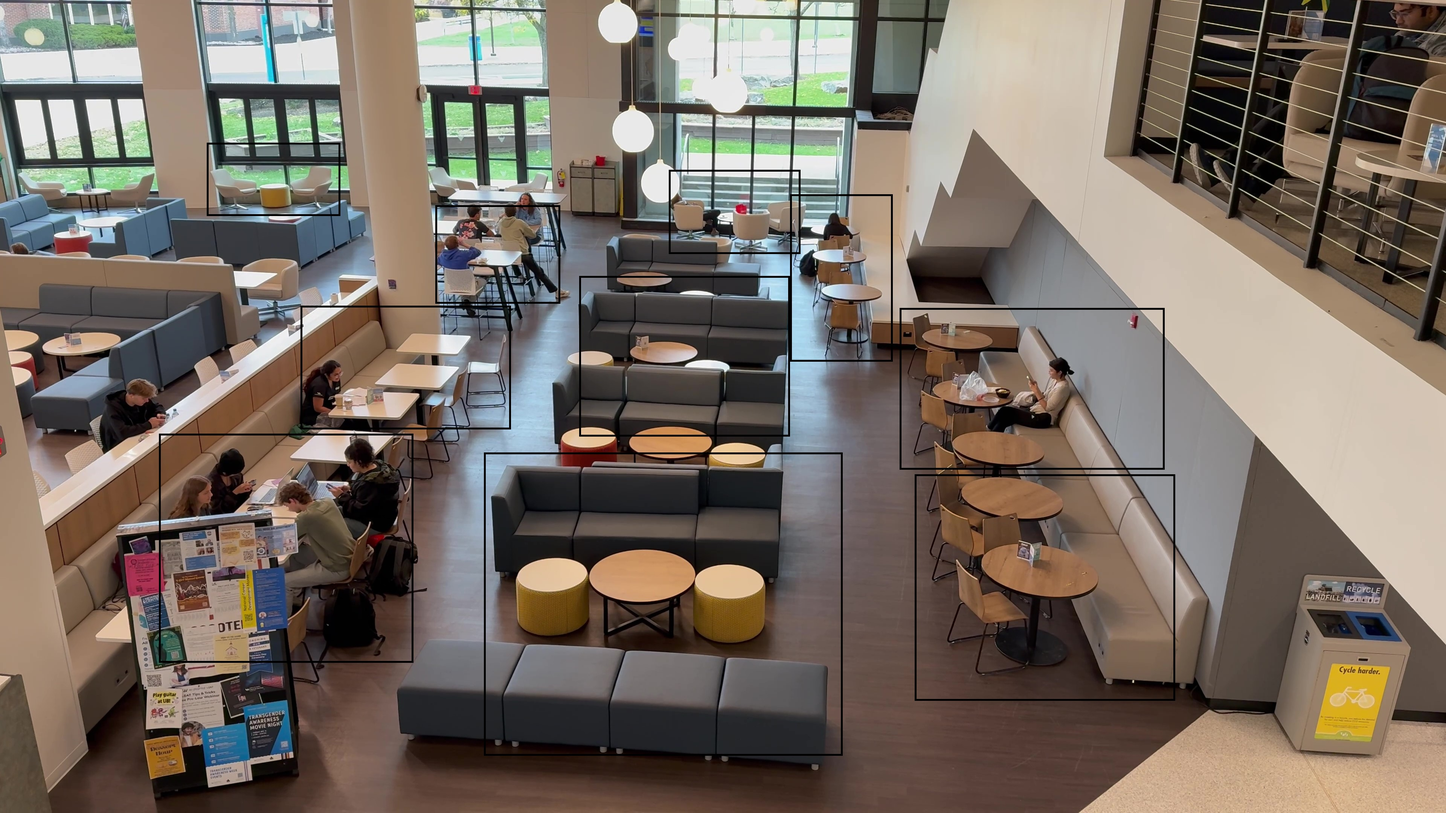
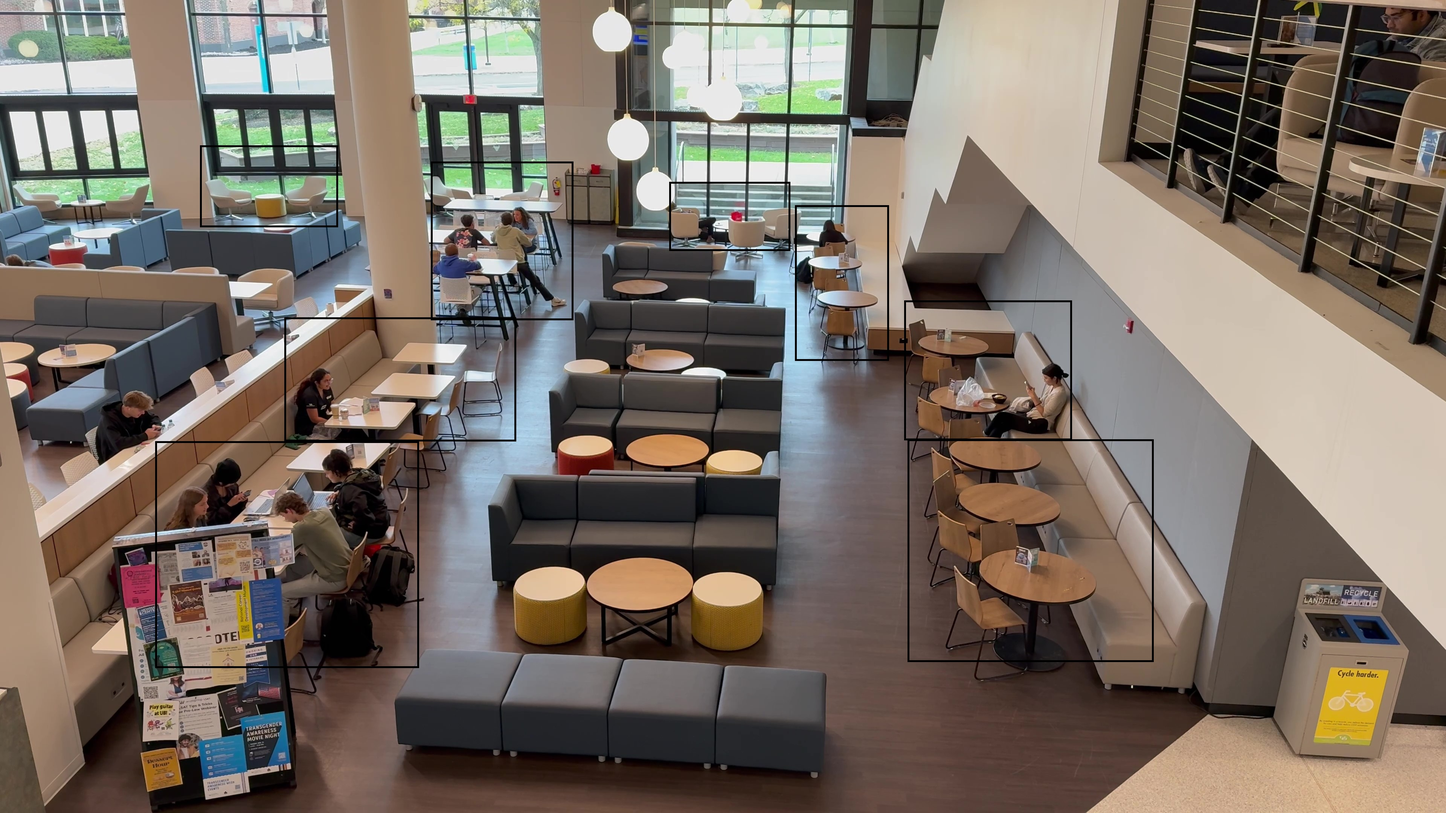
Add: ROI for SU and Tims

diff --git a/Model/main.py b/Model/main.py
@@ -37,7 +37,12 @@ VIDEO_PATHS: list[str | int] = [
     # file or update the ROI JSON accordingly.
     # Example:
     # "data/videos/flint_1.mp4",
-    "data/videos/OW_1.MOV"
+    "data/videos/PaulaPlaza_1.MOV",
+    "data/videos/OW_1.MOV",
+    "data/videos/Flint_1.MOV",
+    "data/videos/SU_3.MOV",
+    "data/videos/SU_2.MOV",
+    "data/videos/Tims_1.MOV",
 ]
 
 ROI_CONFIG_PATH = BASE_DIR / "data/roi.json"
@@ -47,7 +52,7 @@ YOLO_DEVICE: str | None = None  # e.g., "cpu", "cuda:0"
 MODEL_WS_URL = "ws://127.0.0.1:8000/model/ws/connect"
 
 # Sampling interval (seconds) between frames pushed by each video worker.
-FRAME_INTERVAL = 1.0
+FRAME_INTERVAL = 10.0
 
 # Maximum number of items allowed in the intermediate queues.
 QUEUE_CAPACITY = 10
